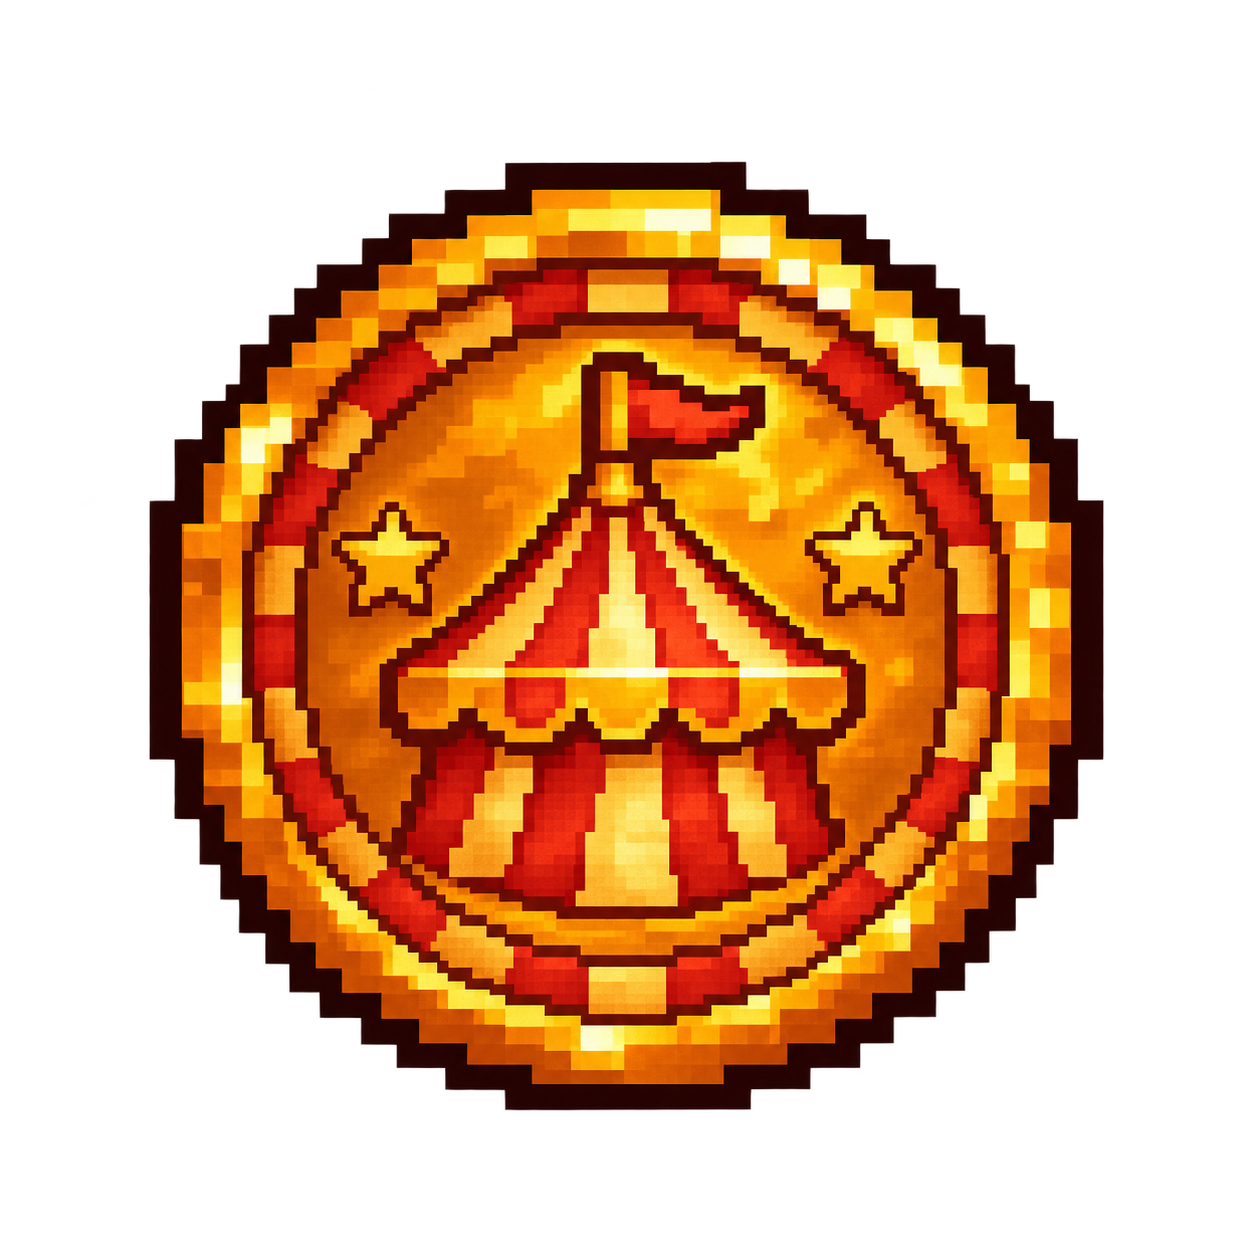
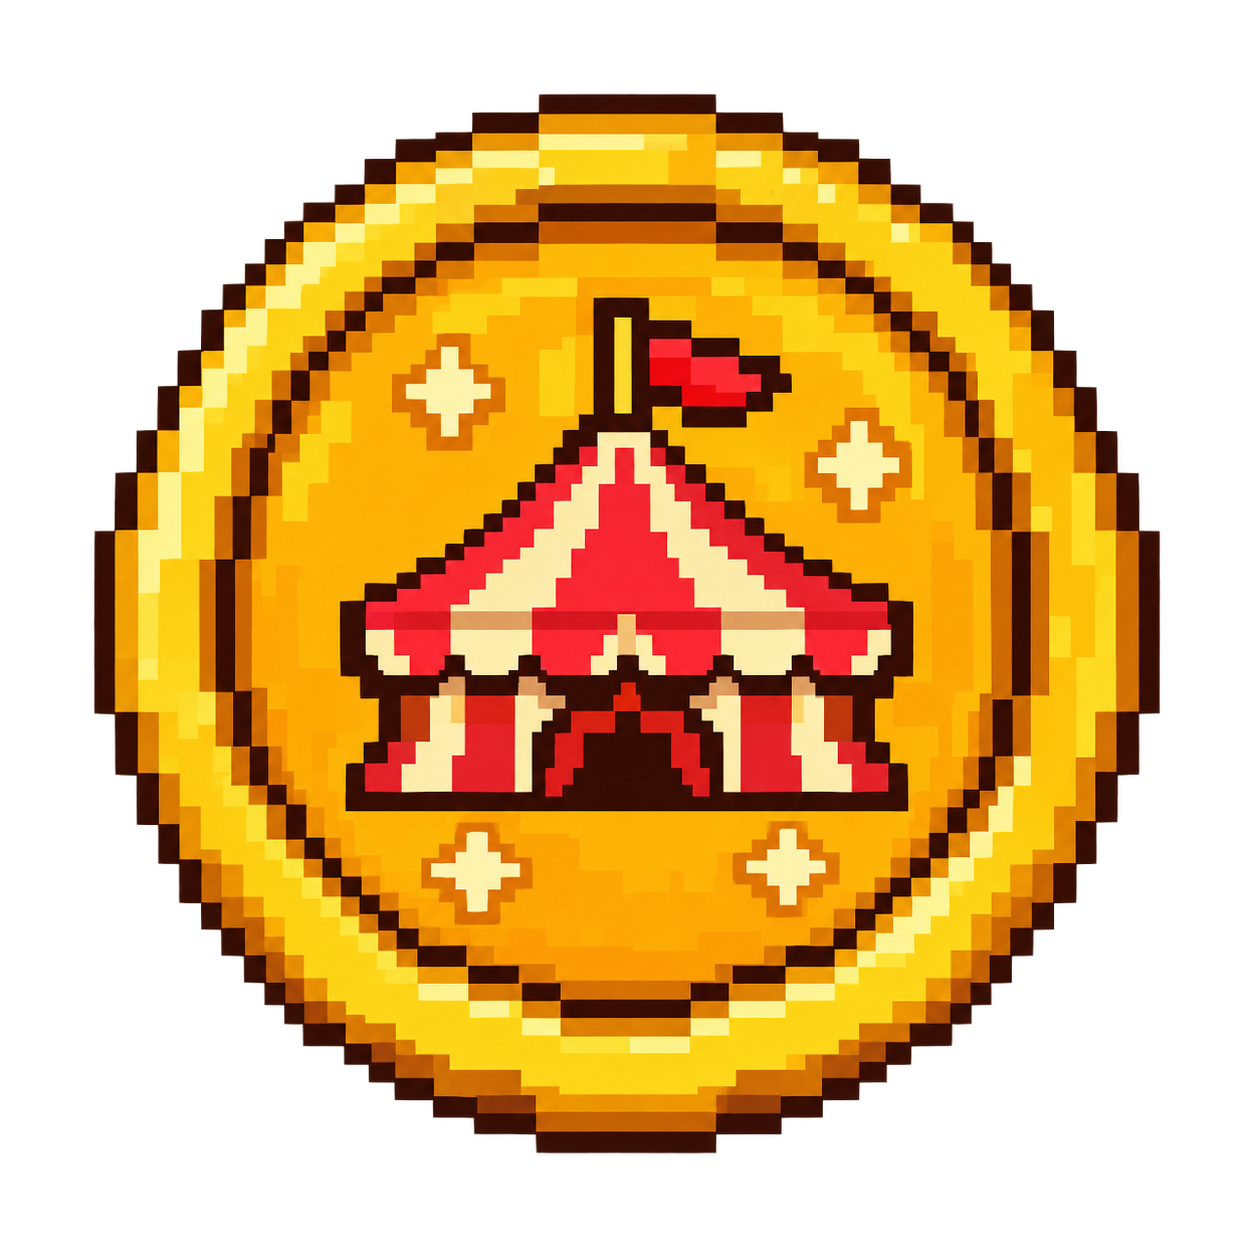
fix

diff --git a/src/game/Game.cpp b/src/game/Game.cpp
@@ -214,13 +214,18 @@ void drawGame() {
 float laneCenterY(int lane) { return LANE_BOTTOM + LANE_HEIGHT * lane + LANE_HEIGHT / 2.0f; }
 float laneFloorY(int lane)  { return LANE_BOTTOM + LANE_HEIGHT * lane + 10.0f; }
 
-bool placeGuard(PlayerType type, int lane) { 
+bool placeGuard(PlayerType type, int lane, float x) {
     if(!spend(type)) 
         return false; //If the player can't afford the guard, return false.
     Player newPlayer;
     newPlayer.type = type;
     newPlayer.lane = lane;
-    newPlayer.x = LANE_LEFT + 40.0f; //Place the guard at the left edge of the lane. 
+    newPlayer.x = LANE_LEFT + 40.0f; //Place the guard at the left edge of the lane.
+    if (type == DEFENSE_GUARD && x >= 0) {   // Defense Guard goes where the mouse clicked
+        newPlayer.x = x;
+        if (newPlayer.x < LANE_LEFT + 40.0f)  newPlayer.x = LANE_LEFT + 40.0f;    // keep it fully inside the lane
+        if (newPlayer.x > LANE_RIGHT - 40.0f) newPlayer.x = LANE_RIGHT - 40.0f;
+    }
     newPlayer.maxHealth = maxHealthOf(type);
     newPlayer.health = newPlayer.maxHealth;
     newPlayer.state = (newPlayer.type == DEFENSE_GUARD) ? IDLE : WALK; //Defense guards start idle, others start walking.

diff --git a/src/game/Game.h b/src/game/Game.h
@@ -45,7 +45,8 @@ float laneFloorY(int lane);   // y where characters' feet stand in the lane
 // Called by Lanes (Person B) when a lane is clicked with a card selected.
 // Checks coins, pays, adds the guard at the left of the lane.
 // Returns false if it can't be afforded (nothing happens).
-bool placeGuard(PlayerType type, int lane);
+// x = where to put a Defense Guard (mouse x). Left out (-1) = left edge of the lane.
+bool placeGuard(PlayerType type, int lane, float x = -1.0f);
 
 // Called by Waves (Person D). Adds a villain at the right edge, full health.
 void spawnEnemy(EnemyType type, int lane);

diff --git a/src/game/Lanes.cpp b/src/game/Lanes.cpp
@@ -25,7 +25,7 @@ void updateLanes() {
         hoveredLane = -1;
    if(mouseClicked() && hoveredLane != -1) { //If the mouse was clicked and the mouse is over a lane, then we check if a card is selected. If it is, we place the guard in that lane. If not, we toggle the selection of that lane.
         if (hasSelectedCard()) { 
-            if(placeGuard(getSelectedCard(), hoveredLane)) {
+            if(placeGuard(getSelectedCard(), hoveredLane, m.x)) {   // m.x = where you clicked
                 clearSelectedCard(); //Clear the selected card after placing the guard.
             }
         } else {

diff --git a/src/ui/PlayerCards.cpp b/src/ui/PlayerCards.cpp
@@ -60,7 +60,8 @@ void drawPlayerCards() {
         drawGuardIcon(type,x,y,cardWidth,cardHeight,tint);
 
         glm::vec4 priceColour = unlocked ? TICKET_GOLD : glm::vec4(0.5f, 0.5f, 0.5f, 1.0f);
-        drawCircle(x - 10, y - cardHeight/2 -12, 5, priceColour);
+        glm::vec4 tokenTint = unlocked ? WHITE : glm::vec4(0.5f, 0.5f, 0.5f, 1.0f);   // grayed out if you can't afford it
+        drawTokenIcon(x - 10, y - cardHeight/2 -12, 16, tokenTint);
         drawText(std::to_string(costOf(type)), x - 2, y - cardHeight/2 -18, 0.3f, priceColour);
         
     

diff --git a/src/ui/HUD.cpp b/src/ui/HUD.cpp
@@ -4,11 +4,11 @@
 #include "Colors.h"
 #include "Text.h"
 #include "Config.h"
+#include "CharacterDraw.h"
 #include <string>
 
 void drawHUD(int coins, int wave) {
-    drawCircle(45,660,18, TICKET_GOLD);
-    drawCircle(45,660,12, glm::vec4(0.75f, 0.55f, 0.10f, 1.0f));
+    drawTokenIcon(45, 660, 48, WHITE);   // the image has empty space around the coin, so draw it a bit bigger
     std::string coinText = std::to_string(coins);
     drawText(coinText, 72, 648, 0.7f, TICKET_GOLD);
 

diff --git a/src/characters/CharacterDraw.h b/src/characters/CharacterDraw.h
@@ -25,6 +25,7 @@ void drawSpark(float x, float y, float time, float hitProgress);
 void drawJuggleBall(float x, float y, float time, float hitProgress);
 // ---- Misc ----
 void drawToken(float x, float y, float time);
+void drawTokenIcon(float x, float y, float size, glm::vec4 tint);   // x, y = center (for the HUD and card prices)
 void drawHealthBar(float x, float y, int current, int max);
 
 void initCharacterTexture();

diff --git a/src/game/Config.h b/src/game/Config.h
@@ -18,7 +18,7 @@ const float HOME_BASE_X = 105.0f;      // center of the  booth(homebase)
 const float HUD_Y = 640.0f;     // cards + coin count are fo2 da 
 
 
-const int START_COINS = 30;
+const int START_COINS = 60;
 const int COST_MELEE = 10;  // Mirror Guard
 const int COST_RANGED = 20;    // Lantern Guard 
 const int COST_DEFENSE = 30;   // Sentinel Guard

diff --git a/src/characters/CharacterDraw.cpp b/src/characters/CharacterDraw.cpp
@@ -164,6 +164,10 @@ void drawToken(float x, float y, float time) {
     drawSprite(tokenTexture, 0, 1, x, y + size / 2, size, size, 0.0f, WHITE);
 }
 
+void drawTokenIcon(float x, float y, float size, glm::vec4 tint) {
+    drawSprite(tokenTexture, 0, 1, x, y, size, size, 0.0f, tint);
+}
+
 
 //Enemies
 
